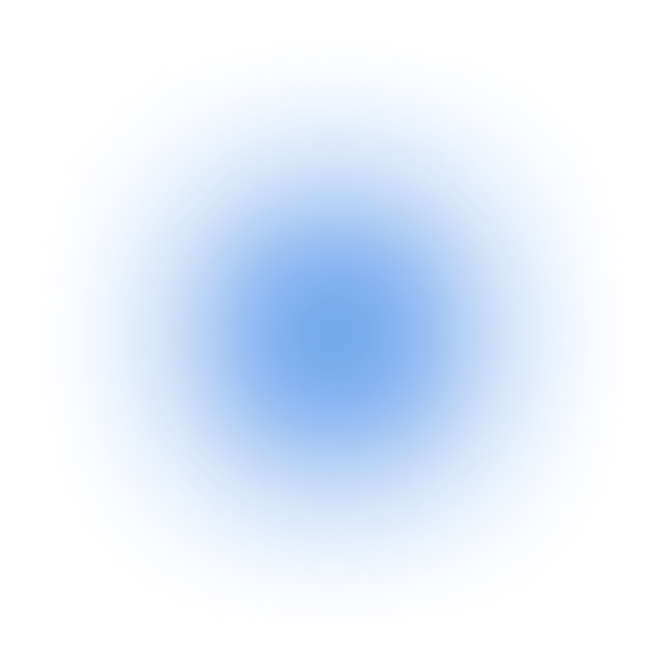
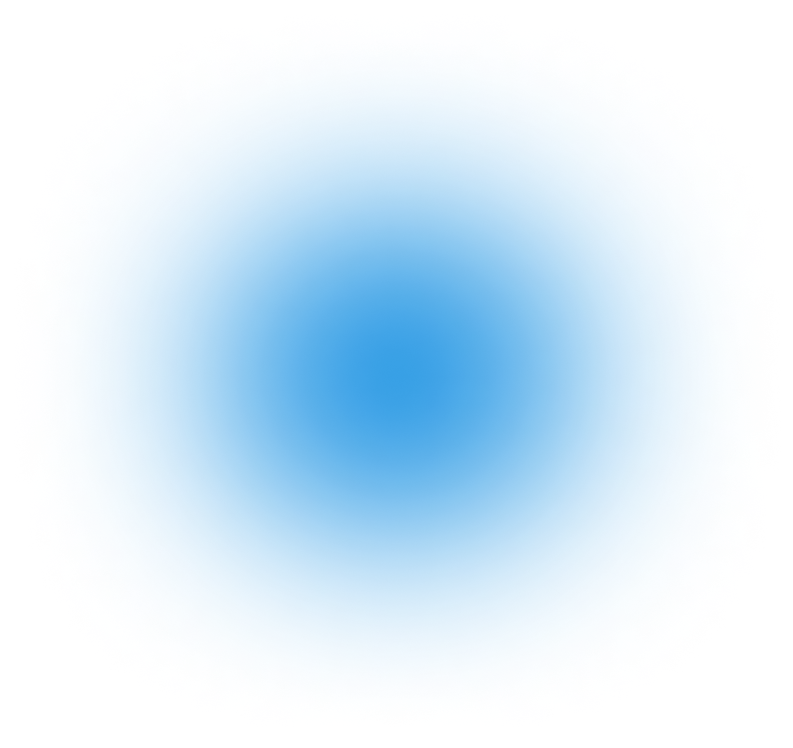
gradientbg

Changed region(s): [[0.2093, 0.2392, 0.7773, 0.7773]]

diff --git a/src/sections/SuperQuality.jsx b/src/sections/SuperQuality.jsx
@@ -6,7 +6,7 @@ const SuperQuality = ({ theme }) => {
   return (
     <section
       id="about-us"
-      className="flex justify-between items-center max-lg:flex-col gap-10 w-full max-container pt-0"
+      className={`flex justify-between items-center max-lg:flex-col gap-10 w-full max-container pt-0 bg-${theme.gradientClass} bg-[right_top_-5rem] bg-no-repeat`}
     >
       {/* REMEMBER TO CUSTOM CLASS FROM THE THEMES! YOU CAN IMPORT AFAIK */}
       <div className="flex flex-1 flex-col">
@@ -46,14 +46,12 @@ const SuperQuality = ({ theme }) => {
       {/*  IMPLEMENT CAROUSEL ON THIS DIV WHERE EACH IMG IS BACK TO BACK! */}
       {/*  IMPLEMENT GRADIENT LIGHT DEPENDING ON WHAT THEME IT IS AS BG! */}
 
-      <div
-        className={`flex-1 flex justify-center items-center bg-${theme.gradientClass}`}
-      >
+      <div className={`flex-1 flex justify-center items-center`}>
         <img
           src={theme.imgClass}
           width={420}
           height={420}
-          className="rounded-xl shadow-xl object-contain"
+          className={`rounded-xl shadow-xl object-contain`}
           alt="Image"
         />
       </div>

diff --git a/src/App.jsx b/src/App.jsx
@@ -12,7 +12,6 @@ import {
 } from "./sections";
 
 import { nikeSuperImgDef } from "./assets/images";
-import { orangeLightBG } from "./assets/images";
 
 import Nav from "./components/Nav";
 
